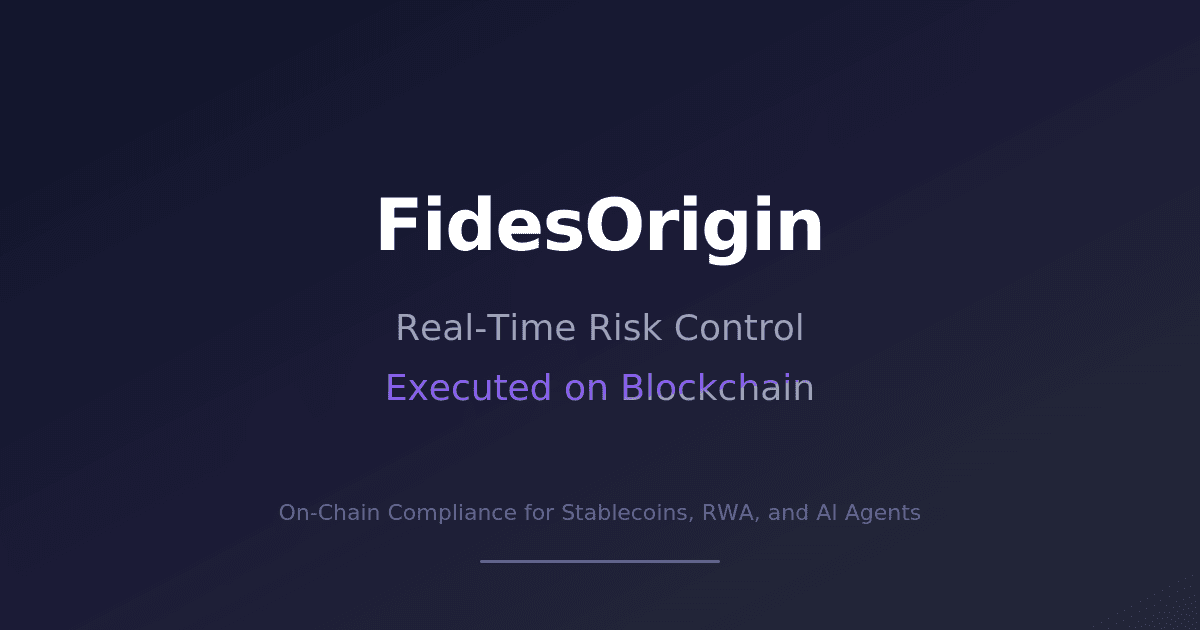
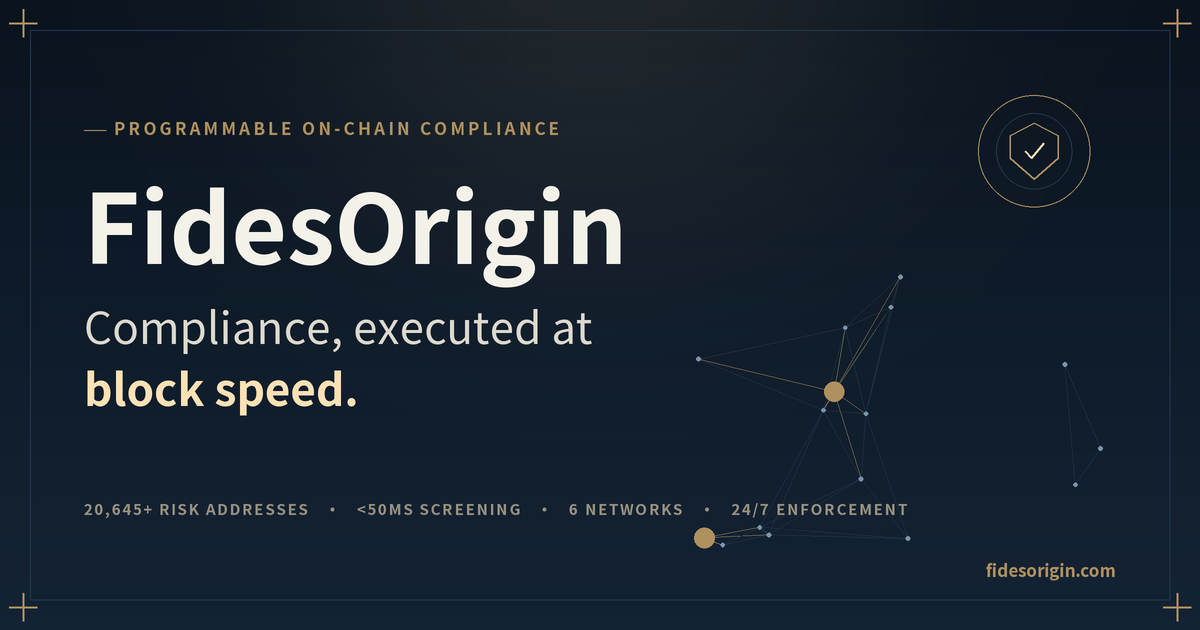
feat(web): OG 社交分享卡重绘 — v4 Ledger Precision (#83)
- 深海军蓝渐变底 + 顶部青铜光晕 + 合规网络网格 + 四角技术刻线 + 封印徽章
- 文案升级：Compliance, executed at block speed. + 指标带（20,645+ / <50ms / 6 链 / 24/7）
- 新增 scripts/generate-og.py（PIL 2x 超采样渲染），og-image.svg 手写同源
- logo 资产保持不变

diff --git a/apps/web/scripts/generate-og.py b/apps/web/scripts/generate-og.py
@@ -1,0 +1,139 @@
+# -*- coding: utf-8 -*-
+"""FidesOrigin OG 社交分享卡生成器 —— v4「Ledger Precision」设计语言。
+
+1200×630（内部 2x 渲染后降采样抗锯齿）。
+深海军蓝底 + 青铜金刻线 + 合规网络网格 + 封印徽章。
+
+用法：python scripts/generate-og.py
+产物：brand/og-image.png 与 public/brand/og-image.png（og-image.svg 为手写同源文件）
+"""
+import math
+import random
+from pathlib import Path
+
+from PIL import Image, ImageDraw, ImageFont
+
+ROOT = Path(__file__).resolve().parent.parent
+FONT_DIR = Path(r"C:\Users\wesleyyang\AppData\Roaming\kimi-desktop\daimon-share\daimon\runtime\python\fonts")
+
+# v4 设计令牌
+INK = (10, 20, 31)         # --fio-ink
+SURFACE2 = (22, 38, 56)    # --fio-surface-2
+BORDER_L = (36, 56, 77)    # --fio-border-light
+TEXT = (244, 241, 233)     # --fio-text
+TEXT3 = (152, 145, 127)    # --fio-text-3
+GOLD = (175, 145, 95)      # --fio-gold
+CREAM = (252, 225, 182)    # --fio-cream
+ACCENT = (227, 200, 146)   # --fio-accent
+STEEL = (122, 148, 171)    # --fio-steel
+
+S = 2  # 2x supersampling
+W, H = 1200 * S, 630 * S
+
+def font(size, bold=False):
+    name = "NotoSansSC-Bold.ttf" if bold else "NotoSansSC-Regular.ttf"
+    return ImageFont.truetype(str(FONT_DIR / name), size * S)
+
+def lerp(a, b, t):
+    return tuple(int(a[i] + (b[i] - a[i]) * t) for i in range(3))
+
+def draw_tracked(draw, xy, text, f, fill, tracking):
+    """逐字绘制带字距的文本。tracking 单位为 px（1x 坐标系）。"""
+    x, y = xy
+    for ch in text:
+        draw.text((x, y), ch, font=f, fill=fill)
+        x += draw.textlength(ch, font=f) + tracking * S
+    return x
+
+def main():
+    img = Image.new("RGB", (W, H), INK)
+    d = ImageDraw.Draw(img)
+
+    # ── 背景：对角渐变 + 顶部青铜光晕 ──
+    for y in range(H):
+        d.line([(0, y), (W, y)], fill=lerp(INK, SURFACE2, y / H * 0.85))
+    glow = Image.new("L", (W, H), 0)
+    gd = ImageDraw.Draw(glow)
+    gd.ellipse([W * 0.25, -H * 0.55, W * 0.75, H * 0.35], fill=26)
+    glow = glow.filter(__import__("PIL.ImageFilter", fromlist=["GaussianBlur"]).GaussianBlur(120 * S))
+    bronze = Image.new("RGB", (W, H), ACCENT)
+    img.paste(bronze, (0, 0), glow)
+    d = ImageDraw.Draw(img)
+
+    # ── 合规网络网格（右下区域，确定性种子）──
+    rng = random.Random(20260913)
+    nodes = []
+    for _ in range(16):
+        x = rng.uniform(W * 0.55, W * 0.94)
+        y = rng.uniform(H * 0.42, H * 0.9)
+        hot = rng.random() < 0.25
+        nodes.append((x, y, hot))
+    link = 150 * S
+    for i, (x1, y1, h1) in enumerate(nodes):
+        for x2, y2, h2 in nodes[i + 1:]:
+            dist = math.hypot(x1 - x2, y1 - y2)
+            if dist < link:
+                a = 1 - dist / link
+                col = lerp(BORDER_L, GOLD if (h1 or h2) else BORDER_L, 0.9 if (h1 or h2) else 0.0)
+                d.line([(x1, y1), (x2, y2)], fill=col, width=max(1, int(1.2 * S * a)))
+    for x, y, hot in nodes:
+        r = (3.4 if hot else 2.2) * S
+        if hot:
+            d.ellipse([x - r * 3, y - r * 3, x + r * 3, y + r * 3], fill=(GOLD[0], GOLD[1], GOLD[2]))
+            # 覆盖为半透明光晕感：外圈重画暗化
+        d.ellipse([x - r, y - r, x + r, y + r], fill=GOLD if hot else STEEL)
+
+    # ── 外框 hairline + 四角刻线 ──
+    m = 30 * S
+    d.rectangle([m, m, W - m, H - m], outline=BORDER_L, width=S)
+    tick = 14 * S
+    off = m - 7 * S
+    for cx, cy in [(off, off), (W - off, off), (off, H - off), (W - off, H - off)]:
+        d.line([(cx - tick, cy), (cx + tick, cy)], fill=GOLD, width=2 * S)
+        d.line([(cx, cy - tick), (cx, cy + tick)], fill=GOLD, width=2 * S)
+
+    # ── 封印徽章（右上）──
+    bx, by, br = W * 0.862, H * 0.24, 56 * S
+    d.ellipse([bx - br, by - br, bx + br, by + br], outline=GOLD, width=int(1.4 * S))
+    d.ellipse([bx - br * 0.68, by - br * 0.68, bx + br * 0.68, by + br * 0.68], outline=BORDER_L, width=S)
+    # 盾 + 对勾
+    sw, sh = 24 * S, 28 * S
+    pts = [
+        (bx, by - sh), (bx + sw, by - sh * 0.55), (bx + sw, by + sh * 0.25),
+        (bx, by + sh), (bx - sw, by + sh * 0.25), (bx - sw, by - sh * 0.55),
+    ]
+    d.line(pts + [pts[0]], fill=GOLD, width=int(1.6 * S), joint="curve")
+    d.line([(bx - 9 * S, by), (bx - 2.5 * S, by + 7 * S), (bx + 10 * S, by - 8 * S)],
+           fill=CREAM, width=int(2.4 * S), joint="curve")
+
+    # ── 文案（左对齐）──
+    x0 = 84 * S
+    # eyebrow
+    draw_tracked(d, (x0 + 30 * S, 118 * S), "PROGRAMMABLE ON-CHAIN COMPLIANCE",
+                 font(17, bold=True), GOLD, tracking=3.2)
+    d.line([(x0, 118 * S + 12 * S), (x0 + 22 * S, 118 * S + 12 * S)], fill=GOLD, width=S)
+
+    # 主标题
+    d.text((x0, 168 * S), "FidesOrigin", font=font(96, bold=True), fill=TEXT)
+    # 副标题两行
+    d.text((x0, 300 * S), "Compliance, executed at", font=font(44), fill=lerp(TEXT, TEXT3, 0.25))
+    d.text((x0, 362 * S), "block speed.", font=font(44, bold=True), fill=CREAM)
+
+    # 底部指标行（mono 风，字符级字距）
+    metrics = "20,645+ RISK ADDRESSES   ·   <50MS SCREENING   ·   6 NETWORKS   ·   24/7 ENFORCEMENT"
+    draw_tracked(d, (x0, 500 * S), metrics, font(15, bold=True), TEXT3, tracking=1.6)
+
+    # 右下角域名
+    dom = "fidesorigin.com"
+    fdom = font(17, bold=True)
+    dw = d.textlength(dom, font=fdom)
+    d.text((W - 84 * S - dw, 560 * S), dom, font=fdom, fill=GOLD)
+
+    # ── 降采样输出 ──
+    img = img.resize((1200, 630), Image.LANCZOS)
+    for out in (ROOT / "brand" / "og-image.png", ROOT / "public" / "brand" / "og-image.png"):
+        img.save(out, optimize=True)
+        print("written:", out)
+
+if __name__ == "__main__":
+    main()
